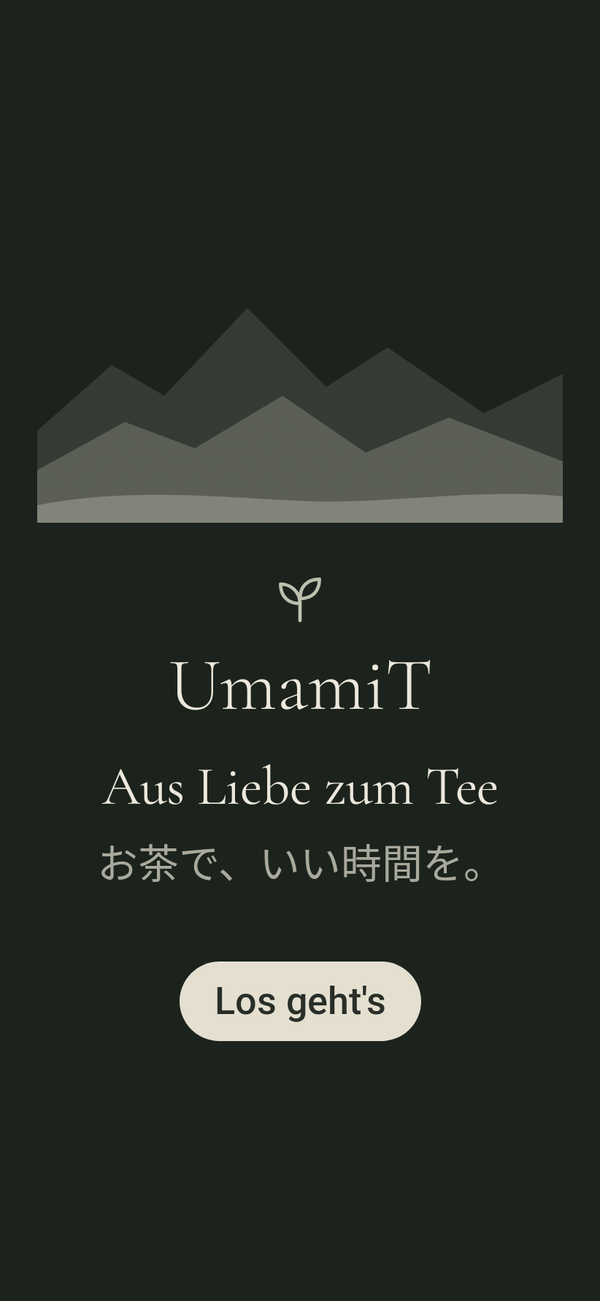
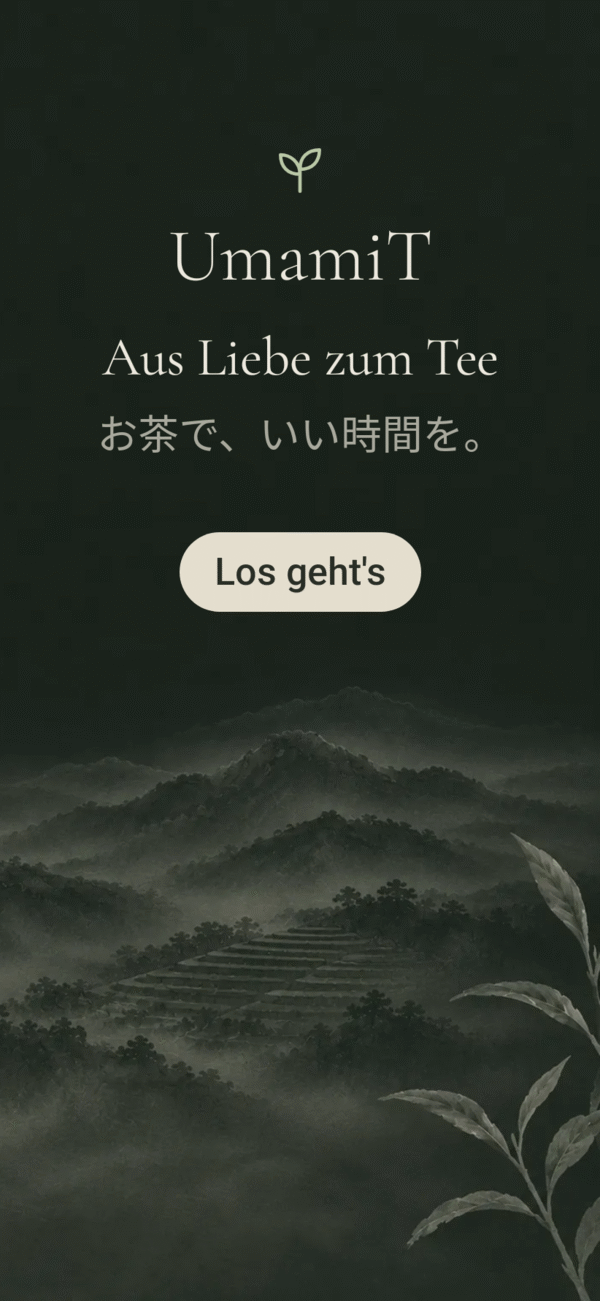
feat: the A2 landscapes fill the welcome page, light and dark (#54, SCR-01)
SCR-01 asks for a full-bleed ink wash: the PO's A2 pair now fills the
welcome page behind the logo, name, welcome text and Los geht's, which
sit on the empty paper above the landscape. Cropped from the right edge
on narrow screens so the tea branches stay; paper colour-matched to the
theme background. WebP, nodpi, 76 KB and 36 KB. Welcome goldens and
review renders re-recorded.

Claude-Session: https://claude.ai/code/session_01TEa8Scj1c19uHy7ruNYZYJ

diff --git a/feature/onboarding/src/main/kotlin/com/umamit/feature/onboarding/OnboardingScreen.kt b/feature/onboarding/src/main/kotlin/com/umamit/feature/onboarding/OnboardingScreen.kt
@@ -8,6 +8,7 @@ import androidx.compose.animation.fadeOut
 import androidx.compose.animation.togetherWith
 import androidx.compose.foundation.Image
 import androidx.compose.foundation.layout.Arrangement
+import androidx.compose.foundation.layout.Box
 import androidx.compose.foundation.layout.Column
 import androidx.compose.foundation.layout.Row
 import androidx.compose.foundation.layout.Spacer
@@ -18,7 +19,6 @@ import androidx.compose.foundation.layout.height
 import androidx.compose.foundation.layout.padding
 import androidx.compose.foundation.layout.safeDrawing
 import androidx.compose.foundation.layout.size
-import androidx.compose.foundation.layout.widthIn
 import androidx.compose.foundation.layout.windowInsetsPadding
 import androidx.compose.foundation.rememberScrollState
 import androidx.compose.foundation.verticalScroll
@@ -34,7 +34,6 @@ import androidx.compose.runtime.saveable.rememberSaveable
 import androidx.compose.runtime.setValue
 import androidx.compose.ui.Alignment
 import androidx.compose.ui.Modifier
-import androidx.compose.ui.graphics.ColorFilter
 import androidx.compose.ui.layout.ContentScale
 import androidx.compose.ui.platform.LocalContext
 import androidx.compose.ui.platform.testTag
@@ -162,26 +161,33 @@ fun OnboardingScreen(
 
 @Composable
 private fun WelcomePage(onStart: () -> Unit) {
+    Box(Modifier.fillMaxSize()) {
+        // The full-bleed ink wash A2 (SCR-01): mountains in its lower half, the tea branches at its
+        // right edge, so a narrow screen crops its left side; its paper is the theme's background.
+        Image(
+            painter = painterResource(if (UmamiTheme.isDark) UmamiIcons.WelcomeDark else UmamiIcons.WelcomeLight),
+            contentDescription = null,
+            modifier = Modifier.fillMaxSize(),
+            contentScale = ContentScale.Crop,
+            alignment = Alignment.BottomEnd,
+        )
+        WelcomeContent(onStart)
+    }
+}
+
+/** Logo, name, welcome and *Los geht's* on the empty paper above the landscape. */
+@Composable
+private fun WelcomeContent(onStart: () -> Unit) {
     Column(
         modifier = Modifier
             .fillMaxSize()
             .verticalScroll(rememberScrollState())
             .windowInsetsPadding(WindowInsets.safeDrawing)
-            .padding(horizontal = UmamiSpacing.SideMargin, vertical = UmamiSpacing.XLarge),
+            .padding(horizontal = UmamiSpacing.SideMargin)
+            .padding(top = WELCOME_TOP_DP.dp, bottom = UmamiSpacing.XLarge),
         horizontalAlignment = Alignment.CenterHorizontally,
-        verticalArrangement = Arrangement.Center,
+        verticalArrangement = Arrangement.Top,
     ) {
-        // Placeholder ink wash until the PO's artwork arrives (A1, docs/design/assets.md).
-        Image(
-            painter = painterResource(UmamiIcons.LandscapePlaceholder),
-            contentDescription = null,
-            modifier = Modifier
-                .widthIn(max = 360.dp)
-                .fillMaxWidth(),
-            contentScale = ContentScale.FillWidth,
-            colorFilter = ColorFilter.tint(MaterialTheme.colorScheme.onSurfaceVariant),
-        )
-        Spacer(Modifier.height(UmamiSpacing.XLarge))
         Icon(
             painter = painterResource(UmamiIcons.Leaf),
             contentDescription = null,
@@ -214,6 +220,9 @@ private fun WelcomePage(onStart: () -> Unit) {
         PillButton(text = stringResource(R.string.onboarding_start), onClick = onStart)
     }
 }
+
+/** Where the welcome content starts: on the empty paper, above the landscape (A2). */
+private const val WELCOME_TOP_DP = 96
 
 @Composable
 private fun ReliabilityPage(

diff --git a/core/designsystem/src/main/kotlin/com/umamit/core/designsystem/icon/UmamiIcons.kt b/core/designsystem/src/main/kotlin/com/umamit/core/designsystem/icon/UmamiIcons.kt
@@ -69,6 +69,12 @@ object UmamiIcons {
     /** A3: the Start header landscape in the dark theme. */
     @DrawableRes val HomeHeaderDark = R.drawable.illustration_home_header_dark
 
+    /** A2: the welcome page's full-bleed landscape in the light theme (SCR-01). */
+    @DrawableRes val WelcomeLight = R.drawable.illustration_welcome_light
+
+    /** A2: the welcome landscape in the dark theme. */
+    @DrawableRes val WelcomeDark = R.drawable.illustration_welcome_dark
+
     // Photos (03 §3.5, docs/design/assets.md)
 
     /** A4: the timer's photo for a tea without one of its own (SCR-05). */

diff --git a/docs/design/assets.md b/docs/design/assets.md
@@ -13,7 +13,7 @@
 | # | Asset | Where it appears | Format to deliver | Variants |
 |---|---|---|---|---|
 | A1 | **Logo sprig** (two tea leaves) ✓ delivered | App icon, splash, welcome, About | PNG ≥ 1024 × 1024, centred on plain washi background; used as reference for the vector redraw | — |
-| A2 | **Welcome landscape** | SCR-01 welcome (full screen, portrait) | PNG ≥ 1440 × 3120 (9:19.5) | light |
+| A2 | **Welcome landscape** ✓ delivered | SCR-01 welcome (full bleed behind the content) | PNG, portrait 2:3 (≥ 1024 × 1536): top 55 % empty paper, landscape below; the app crops from the right edge on narrow screens and matches the paper to the theme background | light **and** dark |
 | A3 | **Home header landscape** ✓ delivered | SCR-02 header (no text on it) | PNG, landscape 3:2 (≥ 1536 × 1024) with everything in the middle third of the height: the app crops a ≈ 3.4:1 band (edge to edge, 120 dp) and matches the paper to the theme background | light **and** dark |
 | A4 | **Timer fallback photo** ✓ delivered | SCR-05 top area when a tea has no photo (the quick timer has none, D-069) | PNG, landscape 3:2 (≥ 1536 × 1024): the photo band is full width × 280 dp, centre-cropped, its lower part fading into the background; dark and moody, subject in the upper middle | dark only (timer is always dark) |
 | A5 | **Reliability illustration** | SCR-01 page „Damit der Timer zuverlässig klingelt" | PNG ≥ 1200 × 900, transparent or washi background | light |
@@ -28,7 +28,7 @@
 | A9 | **Empty state: Statistik** (not enough data) | SCR-18 | ≥ 1200 × 900 vignette | M4 |
 | A10 | **No search results** | lists | ≥ 1200 × 900 vignette | M3 |
 | A11 | **Ratgeber header** (guides list) | SCR-19 › Ratgeber | ≥ 2400 × 1000 | M2 |
-| A12 | **Dark variants** of A2, A6–A10 | dark theme | as above | M5 |
+| A12 | **Dark variants** of A6–A10 (A2's came with it) | dark theme | as above | M5 |
 
 Not needed as images (drawn in code or as vector icons): type colour leaf
 fallbacks for tea thumbnails, line icons (kyusu, gaiwan, kettle, …), charts,
@@ -84,7 +84,8 @@ around it, symmetrical balance, suitable as an app logo. Square 1:1.
 
 **A2 — Welcome landscape (portrait)**
 ```text
-<style block> Tall portrait composition 9:19.5. Misty layered mountains in
+<style block> Tall portrait composition 2:3 (a phone crops it from the right
+edge); the top 55 % almost empty, the bottom 15 % soft mist for a button. Misty layered mountains in
 the lower third fading into fog, a few terraced tea fields on a gentle slope
 in the foreground, two or three tea branches entering from the lower right
 corner in deep green. The upper two thirds are almost empty paper with soft

diff --git a/docs/design/assets/source/CREDITS.md b/docs/design/assets/source/CREDITS.md
@@ -40,4 +40,5 @@ Tee-Kontor photos or texts (CLAUDE.md rule 3).
 |---|---|---|---|
 | `core/designsystem/src/main/res/drawable/illustration_placeholder_landscape.xml` | Placeholder landscape for empty states until A1–A5 exist (`docs/design/assets.md`) | Own work | Own work |
 | `core/designsystem/src/main/res/drawable-nodpi/illustration_home_header_{light,dark}.webp` | A3 Start header landscape, light and dark (SCR-02), from `docs/design/assets/source/A3-home-header-{light,dark}.png`: cropped to the mountain band, paper colour-matched to the theme background | AI-generated for the PO (D-029, option C) | Own work |
+| `core/designsystem/src/main/res/drawable-nodpi/illustration_welcome_{light,dark}.webp` | A2 welcome landscape, light and dark (SCR-01), from `docs/design/assets/source/A2-welcome-{light,dark}.png`, paper colour-matched to the theme background | AI-generated for the PO (D-029, option C) | Own work |
 | `core/designsystem/src/main/res/drawable-nodpi/photo_timer_fallback.webp` | A4 timer fallback photo (SCR-05), from `docs/design/assets/source/A4-timer-fallback.png` | AI-generated for the PO (D-029, option C) | Own work |

diff --git a/docs/design/review/M1/README.md b/docs/design/review/M1/README.md
@@ -11,7 +11,7 @@ worst-case set. Each state exists in light and dark.
 | Folder | Content |
 |---|---|
 | `home/` | SCR-01 Start: seeded, empty collection, active session, question state (header: A3, light and dark) |
-| `onboarding/` | SCR-02 welcome and reliability page |
+| `onboarding/` | SCR-02 welcome (full-bleed A2, light and dark) and reliability page |
 | `brew/` | SCR-03 tea picker (incl. empty), SCR-04 setup (kyusu, cold, changed, question), SCR-05 timer in all states (ready, running, pre-alert, paused, alerting incl. rinse, overtime, wash phases, finished, cold and ice; with the fallback photo A4 in the photo slot, which a brew without a readable cover photo also shows on the phone, D-069), SCR-07 quick timer (chips, custom, picker; no photo), Schritte-Sheet (without recipe, with done steps, 30 steps) |
 | `journal/` | SCR-06 journal: with sessions (long German name, photo and placeholder), empty, saved sheet |
 | `collection/` | SCR-08 / SCR-19 *Sammlung* placeholders until M2/M3: *Meine Tees* (where the teas are for now) and *Katalog* (D-069) |
